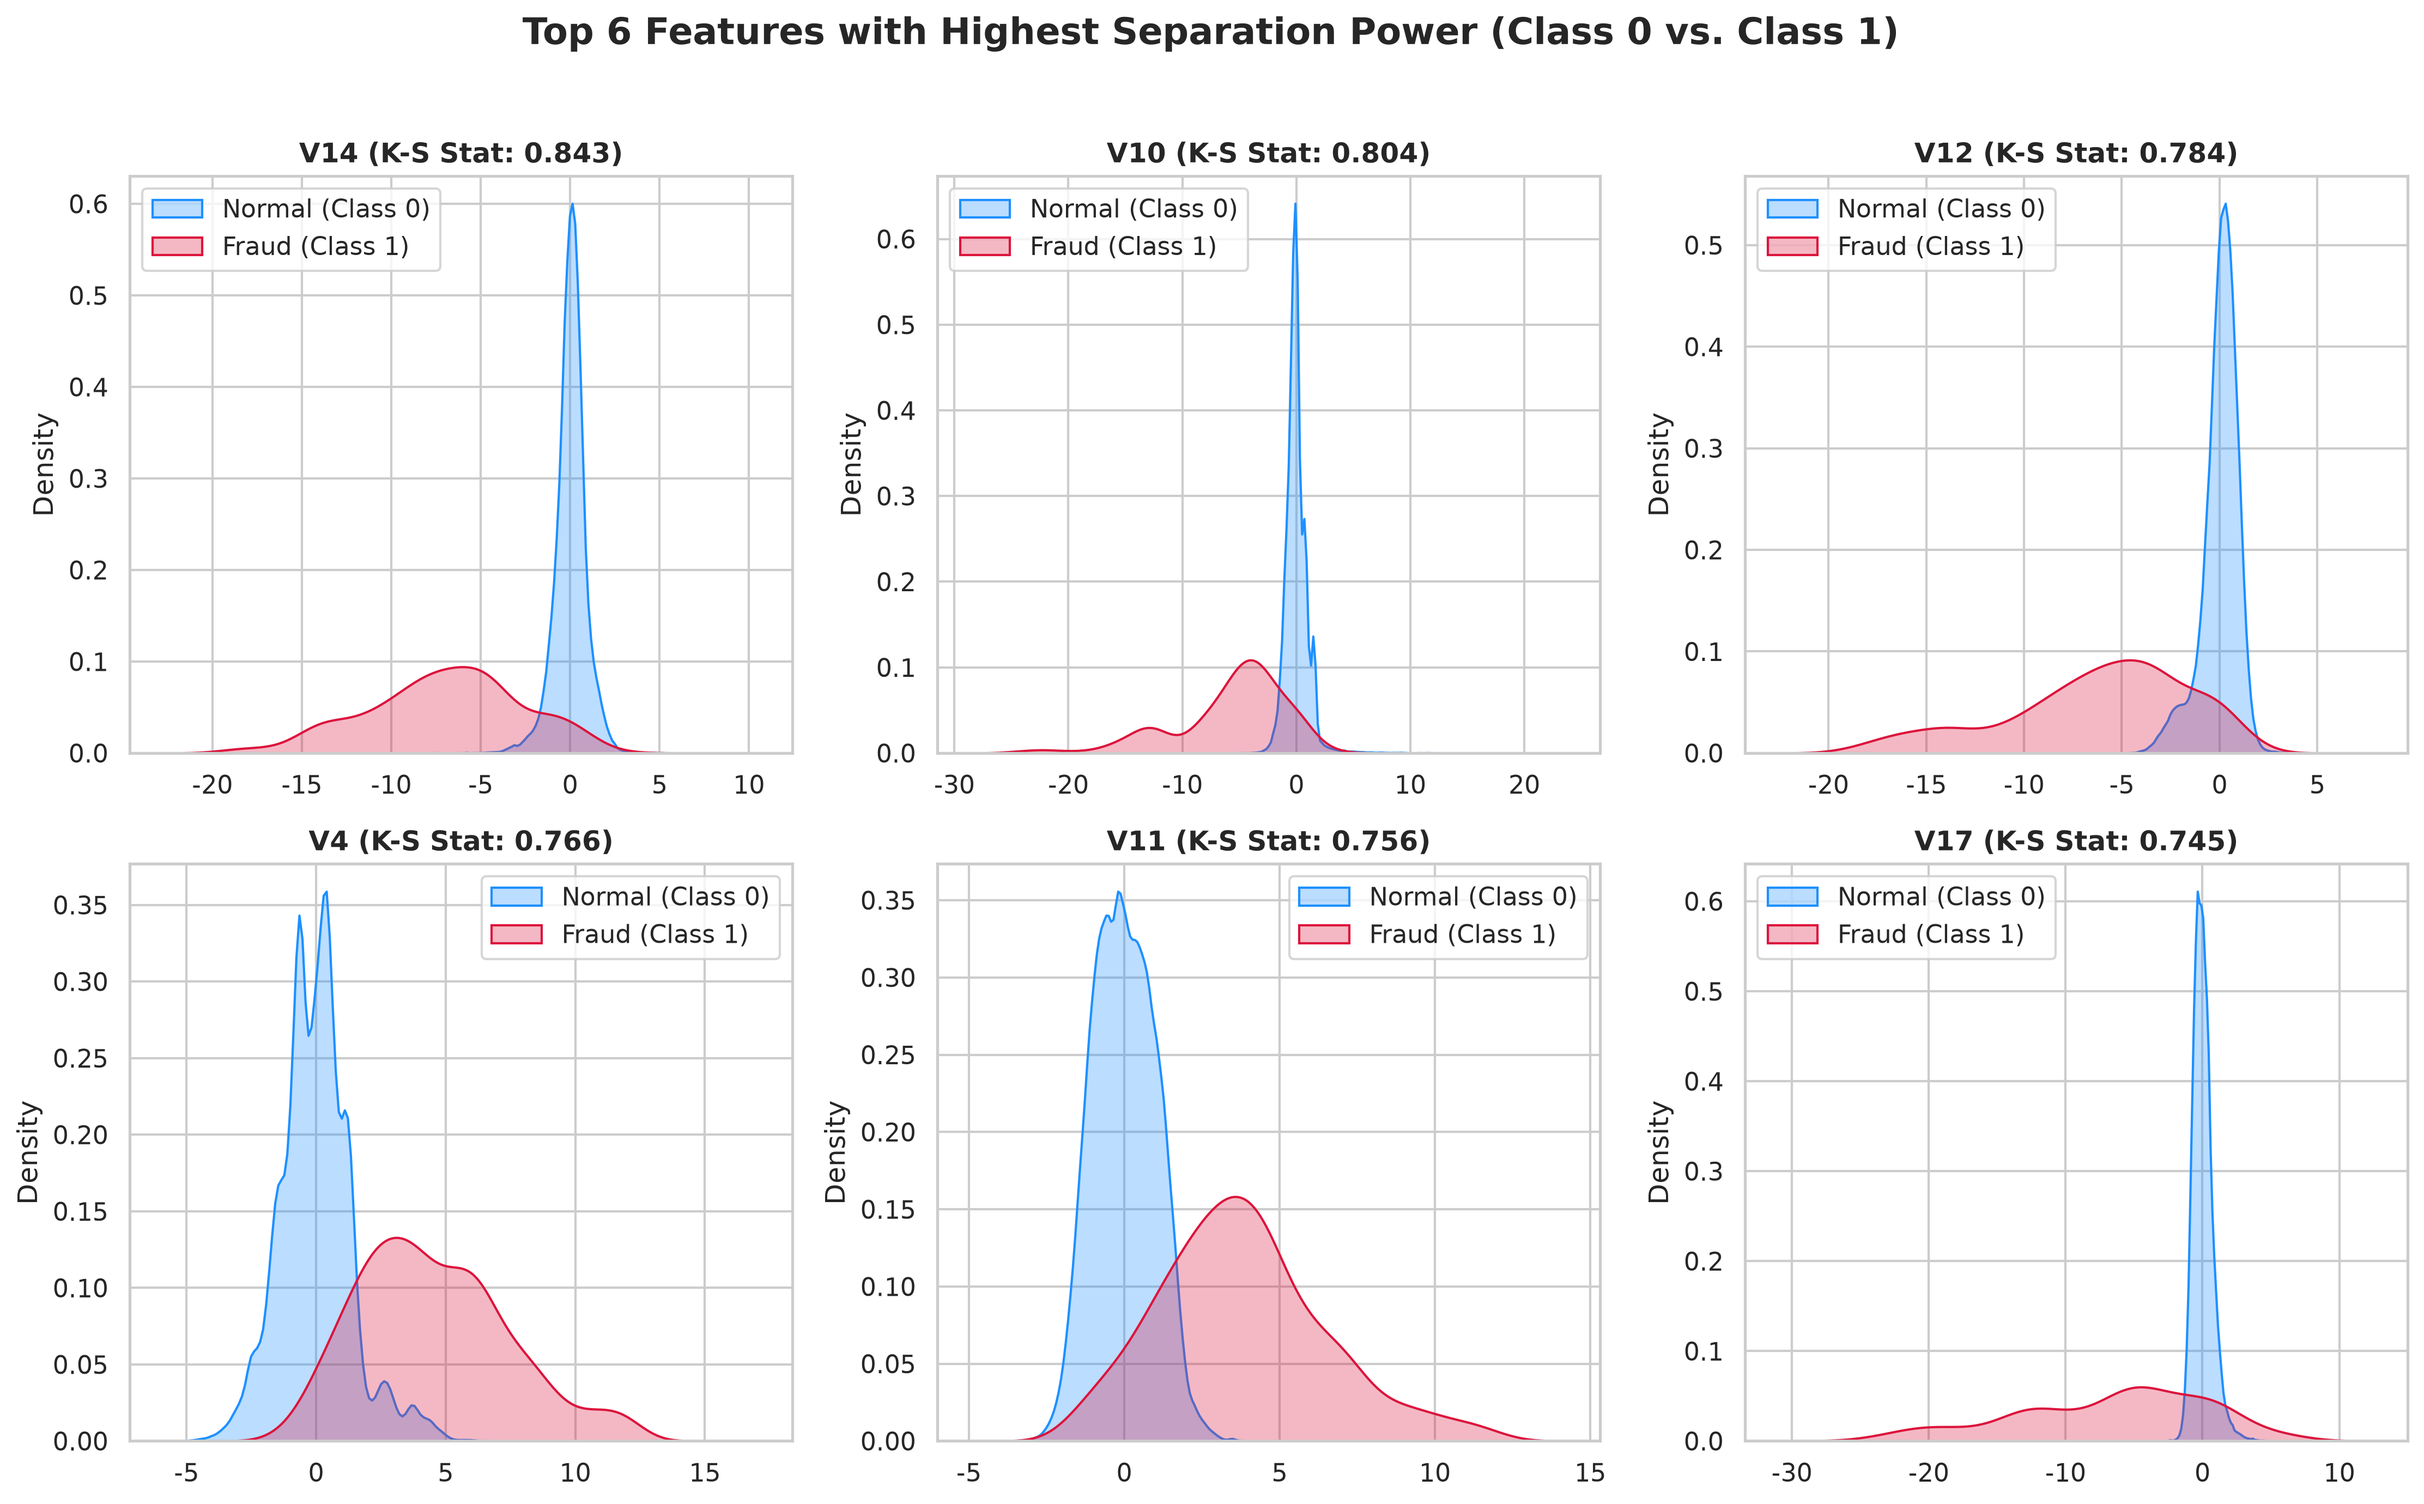
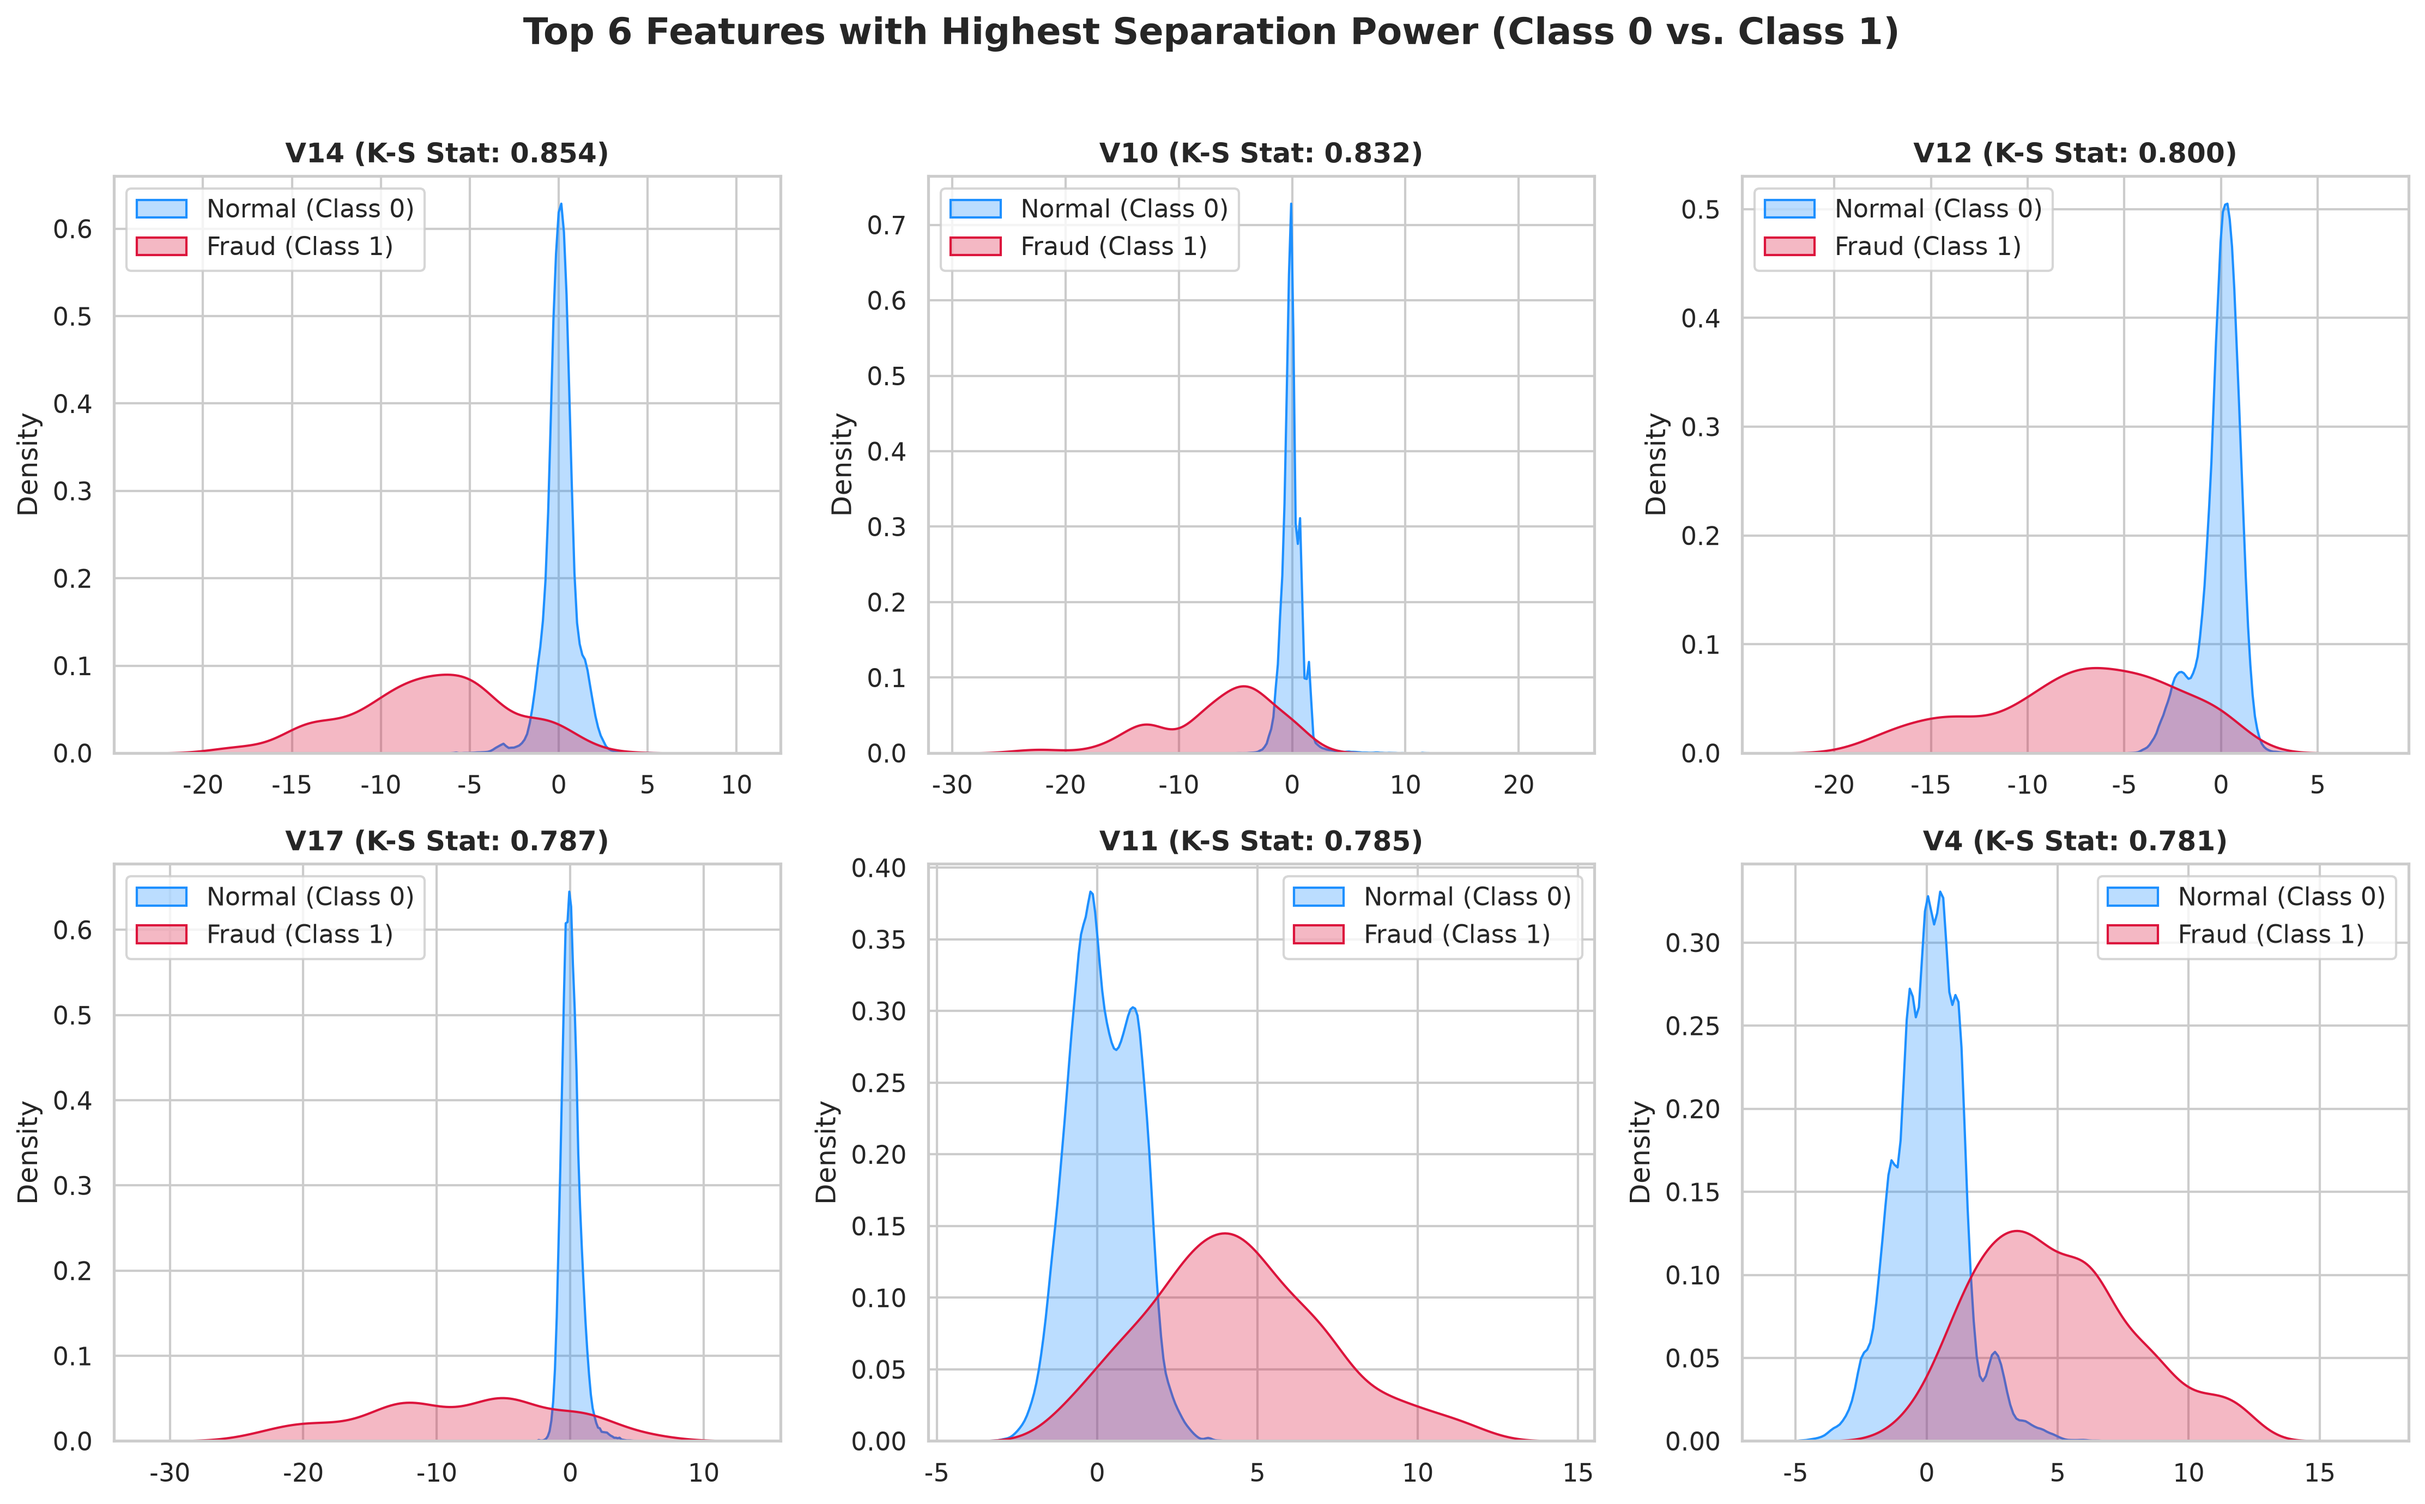
update EDA figures

diff --git a/feature_analysis.py b/feature_analysis.py
@@ -270,7 +270,7 @@ def evaluate_t1_baseline_feasibility(df, top_features):
 if __name__ == "__main__":
     # 1. 載入資料 (請確保目錄下有 creditcard.csv)
     # 下載網址: https://www.kaggle.com/datasets/mlg-ulb/creditcardfraud
-    data_path = "data/creditcard.csv"
+    data_path = "data/processed/train.csv"
     
     if not os.path.exists(data_path):
         print(f"⚠ 未找到 `{data_path}`，請至 Kaggle 下載 Credit Card Fraud Detection 資料集。")
